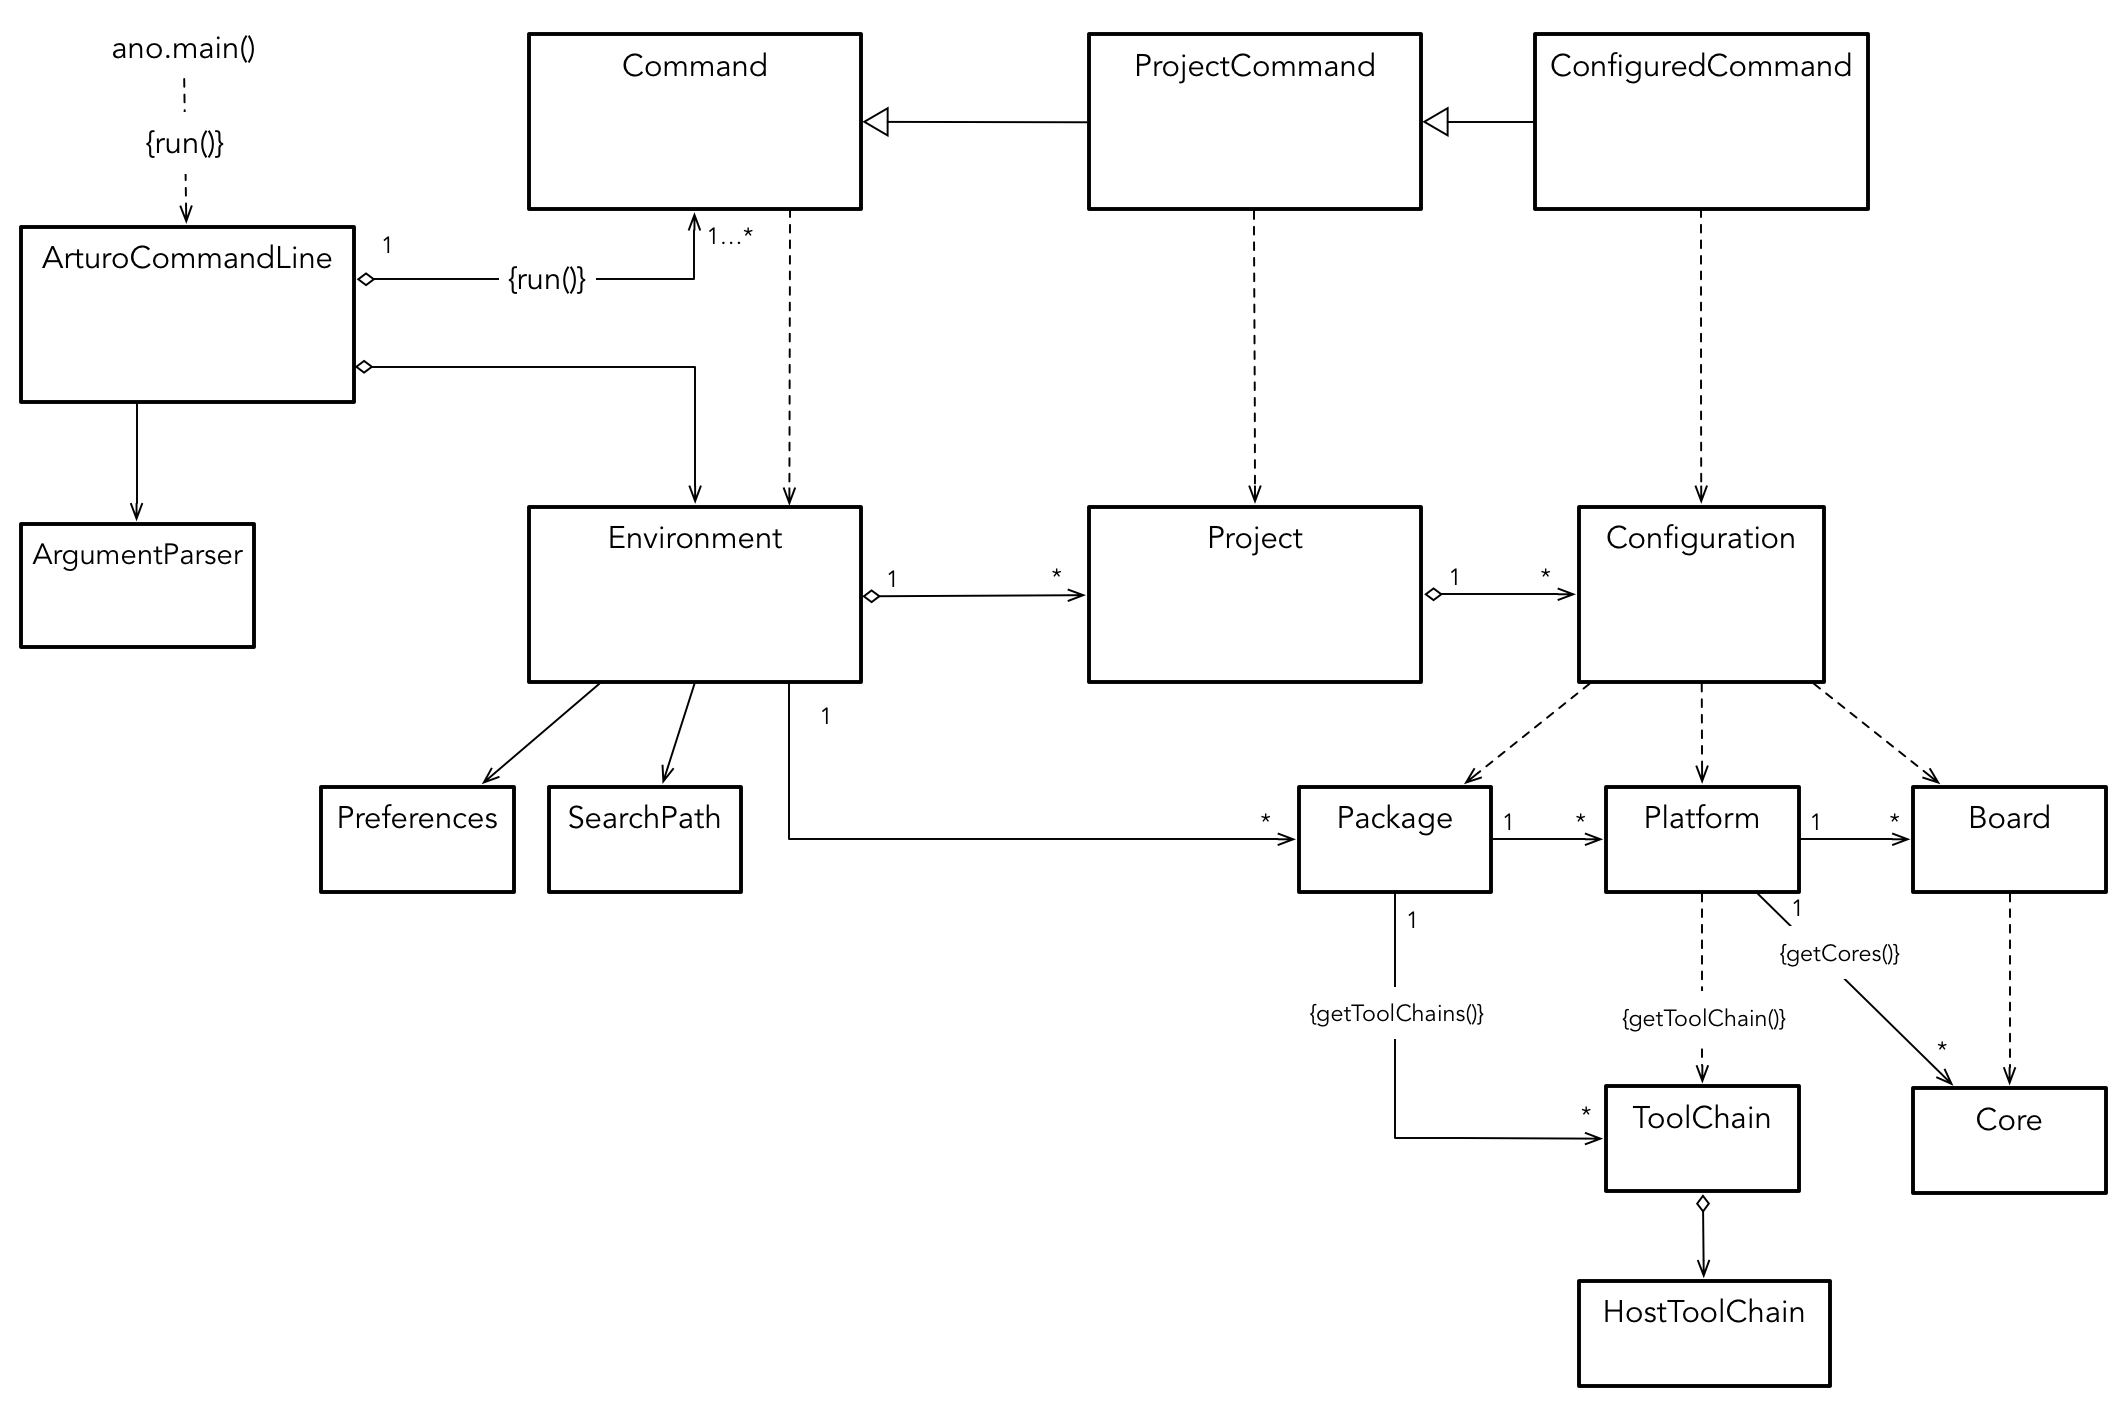
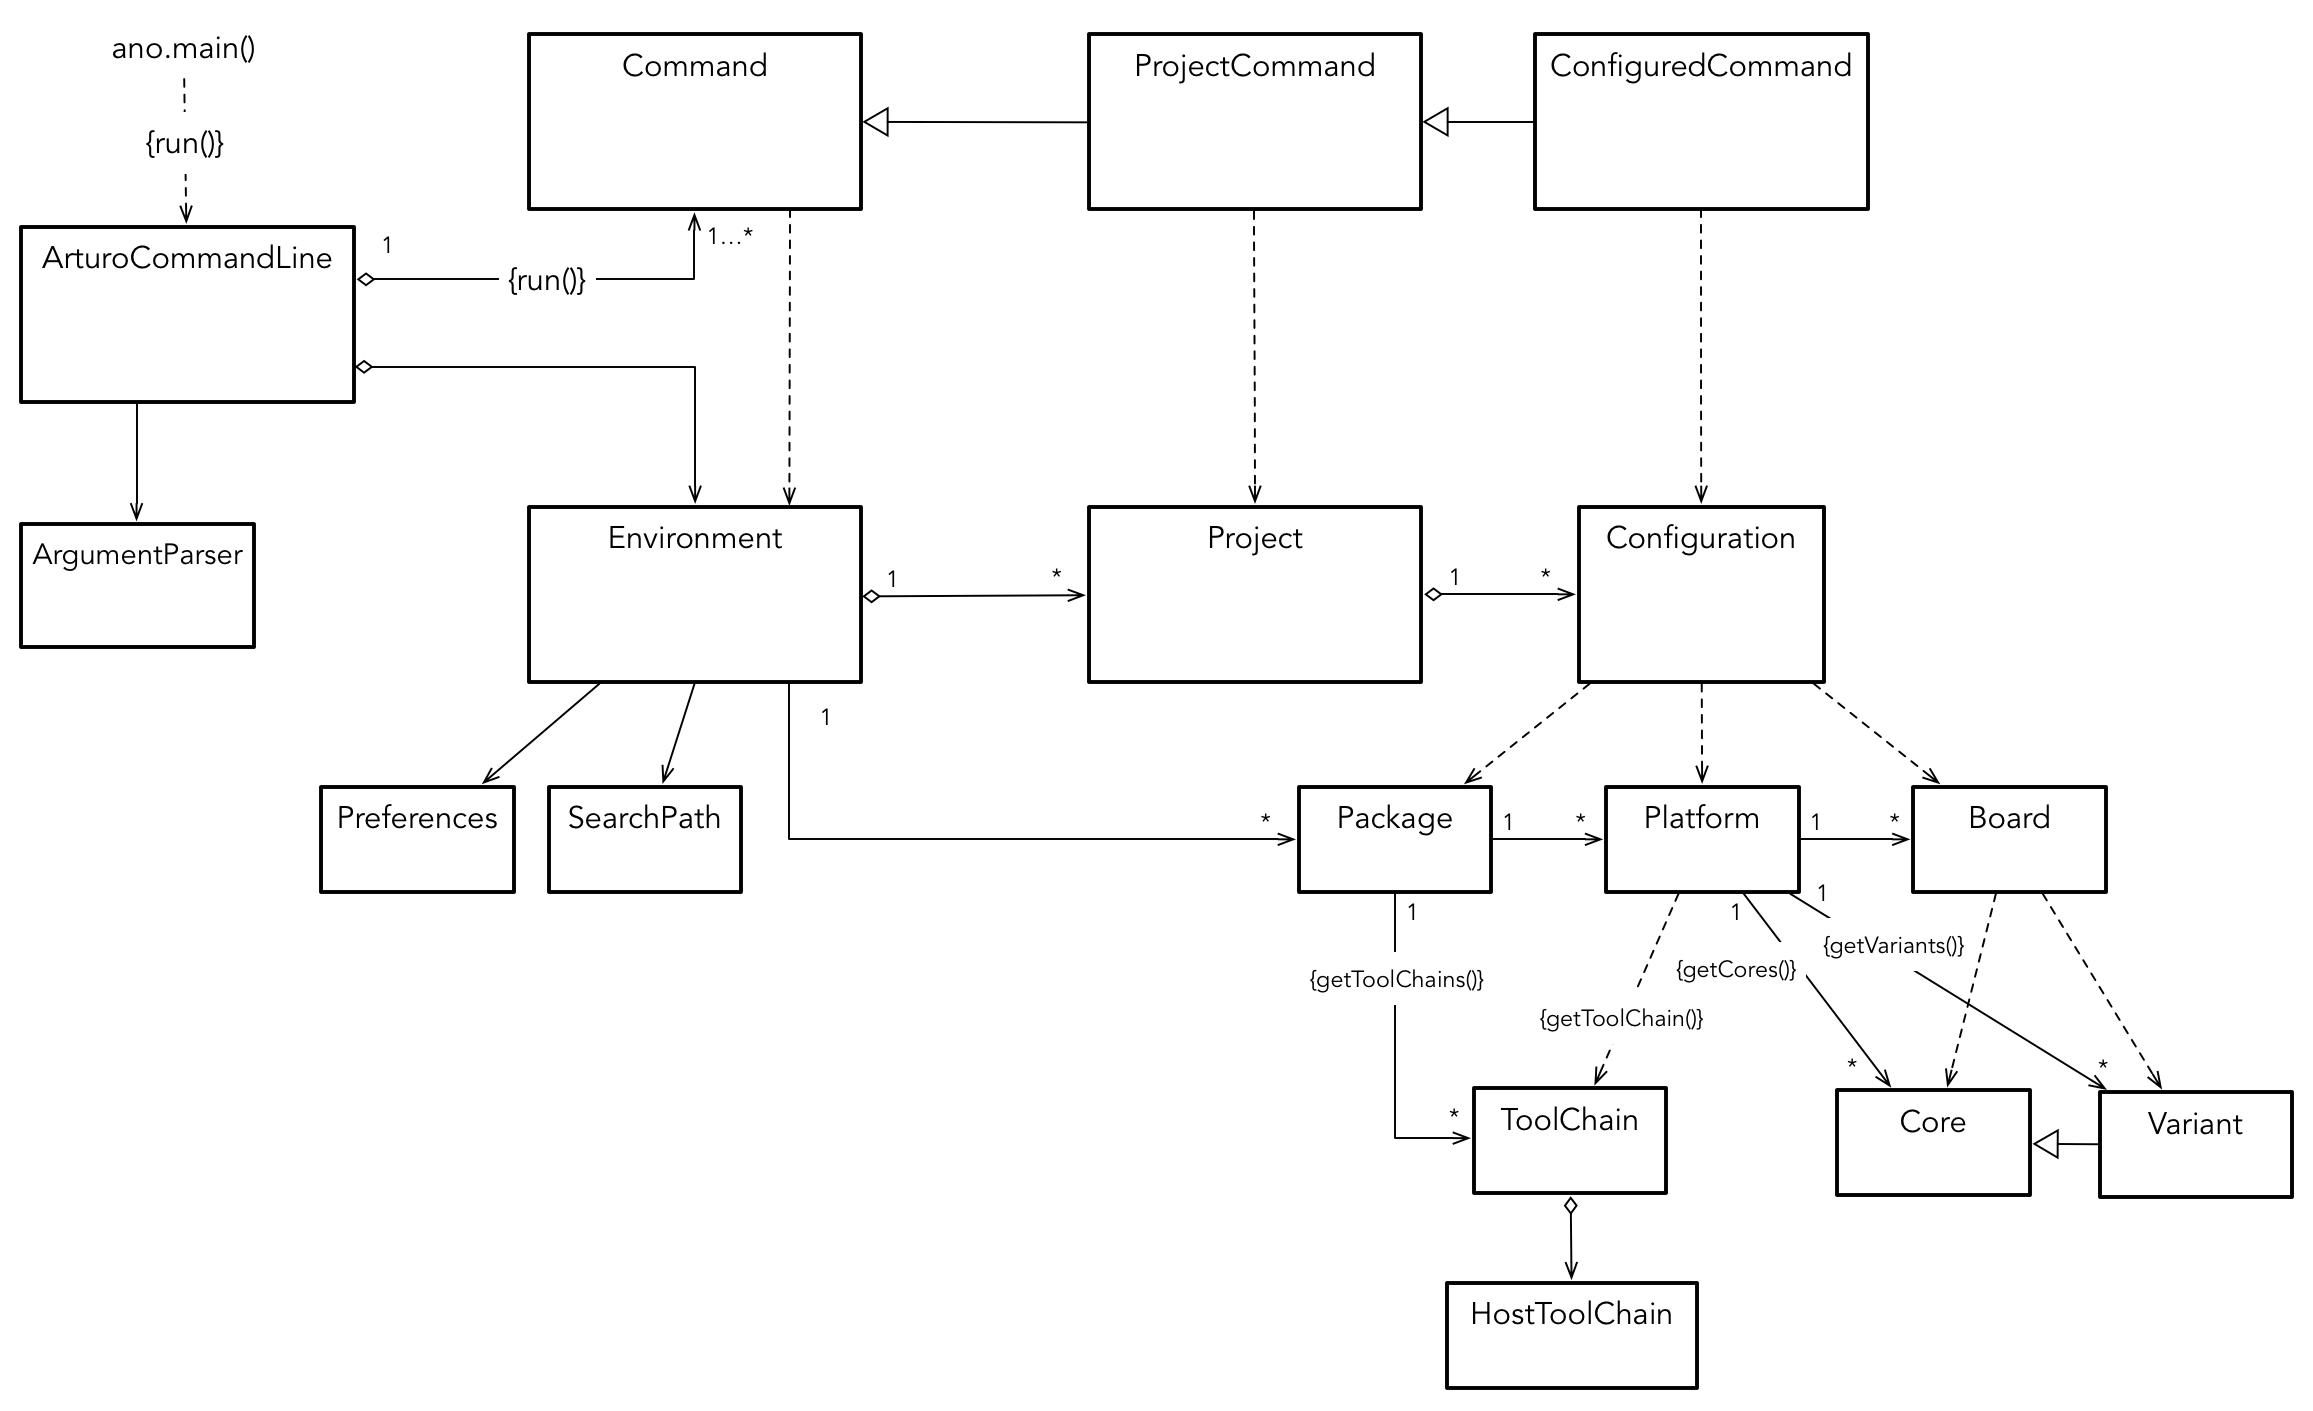
With this change the blink sketches should build.
Next up, Library support!

diff --git a/ano/Arturo2/hardware.py b/ano/Arturo2/hardware.py
@@ -51,6 +51,7 @@ class Board(NamedOrderedDict):
         self._console = console
         self._rawPlatformData = None
         self._core = None
+        self._variant = None
 
     def getPlatform(self):
         return self._platform
@@ -61,6 +62,19 @@ class Board(NamedOrderedDict):
             self._core = self.getPlatform().getCores()[coreName]
         return self._core
     
+    def getVariant(self):
+        if self._variant == -1:
+            return None
+        if self._variant is None:
+            try:
+                variantName = self['build.variant']
+            except KeyError:
+                self._console.printVerbose("Board {} does not have a variant.".format(self.getName()))
+                self._variant = -1
+                return None
+            self._variant = self.getPlatform().getVariants()[variantName]
+        return self._variant
+
     def processBuildInfo(self, unexpandedMacroResolver=None, elideKeysForMissingValues=False):
         '''
         Process the key/value data found in this board's platform.txt file expanding the Arduino15 style
@@ -177,6 +191,14 @@ class Core(object):
         return self._headers
 
 # +---------------------------------------------------------------------------+
+# | Variant
+# +---------------------------------------------------------------------------+
+class Variant(Core):
+    
+    def __init__(self, name, path, platform, console):
+        super(Variant, self).__init__(name, path, platform, console)
+
+# +---------------------------------------------------------------------------+
 # | Platform
 # +---------------------------------------------------------------------------+
 class PlatformBoardFactory(object):
@@ -193,6 +215,7 @@ class Platform(object):
     BOARDS_FILENAME = "boards.txt"
     PROGRAMMERS_FILENAME = "programmers.txt"
     CORES_FOLDER = "cores"
+    VARIANTS_FOLDER = "variants"
     ARDUINO15_KNOWN_METADATA_ALIASES = { 
                                         "arch": ("architecture", upper),
                                     }
@@ -221,6 +244,7 @@ class Platform(object):
         self._platformBoardFactory = PlatformBoardFactory(self, console)
         self._toolsList = None
         self._cores = None
+        self._variants = None
         
         if not os.path.isdir(self._platformPath):
             if console:
@@ -292,3 +316,14 @@ class Platform(object):
                     self._cores[item] = Core(item, coreitempath, self, self._console)
 
         return self._cores
+
+    def getVariants(self):
+        if self._variants is None:
+            self._variants = dict()
+            variantsdir = os.path.join(self.getPlatformPath(), Platform.VARIANTS_FOLDER)
+            for item in os.listdir(variantsdir):
+                variantitempath = os.path.join(variantsdir, item)
+                if os.path.isdir(variantitempath):
+                    self._variants[item] = Variant(item, variantitempath, self, self._console)
+
+        return self._variants

diff --git a/ano/Arturo2/commands/build.py b/ano/Arturo2/commands/build.py
@@ -93,7 +93,7 @@ class Preprocess(ConfiguredCommand):
                 out.write('\n'.join(prototypes))
                 out.write('\n')
         
-                out.write('#line 1 "%s"\n' % sketch)
+                out.write('/* line 1 "%s" */\n' % sketch)
                 out.write('\n'.join(lines))
 
     def _prototypes(self, src):
@@ -142,3 +142,54 @@ class Preprocess(ConfiguredCommand):
         strings from a string.
         """
         return self._re_strip.sub(' ', src)
+
+
+# +---------------------------------------------------------------------------+
+# | Cmd_source_headers
+# +---------------------------------------------------------------------------+
+class Cmd_source_headers(ConfiguredCommand):
+    
+    # +-----------------------------------------------------------------------+
+    # | ArgumentVisitor
+    # +-----------------------------------------------------------------------+
+    def onVisitArgParser(self, parser):
+        None
+    
+    # +-----------------------------------------------------------------------+
+    # | Runnable
+    # +-----------------------------------------------------------------------+
+    def run(self):
+        configuration = self.getConfiguration()
+        headers = configuration.getHeaders()
+        core = configuration.getBoard().getCore();
+        headers += core.getHeaders()
+        variant = configuration.getBoard().getVariant()
+        headers += variant.getHeaders()
+        
+        projectPath = self.getProject().getPath()
+        
+        headerFolders = set()
+        for header in headers:
+            headerFolders.add(os.path.relpath(os.path.dirname(header), projectPath))
+        self.getConsole().stdout(*headerFolders)
+
+# +---------------------------------------------------------------------------+
+# | Cmd_source_files
+# +---------------------------------------------------------------------------+
+class Cmd_source_files(ConfiguredCommand):
+    
+    # +-----------------------------------------------------------------------+
+    # | ArgumentVisitor
+    # +-----------------------------------------------------------------------+
+    def onVisitArgParser(self, parser):
+        None
+    
+    # +-----------------------------------------------------------------------+
+    # | Runnable
+    # +-----------------------------------------------------------------------+
+    def run(self):
+        sources = self.getConfiguration().getSources()
+        projectPath = self.getProject().getPath()
+        relativeSource = [os.path.relpath(sources[x], projectPath) for x in range(len(sources))]
+        self.getConsole().stdout(*relativeSource)
+

diff --git a/ano/Arturo2/commands/__init__.py b/ano/Arturo2/commands/__init__.py
@@ -12,9 +12,8 @@ import textwrap
 
 from ano import Arturo2
 import ano
-from ano.Arturo2.commands.automation import Cmd_source_headers, Cmd_source_files
 from ano.Arturo2.commands.base import Command
-from ano.Arturo2.commands.build import Preprocess
+from ano.Arturo2.commands.build import Preprocess, Cmd_source_headers, Cmd_source_files
 from ano.Arturo2.commands.makegen import Make_gen
 from ano.Arturo2.commands.prebuild import Init, Version
 from ano.Arturo2.commands.query import List_boards, List_tools, List_platform_data
